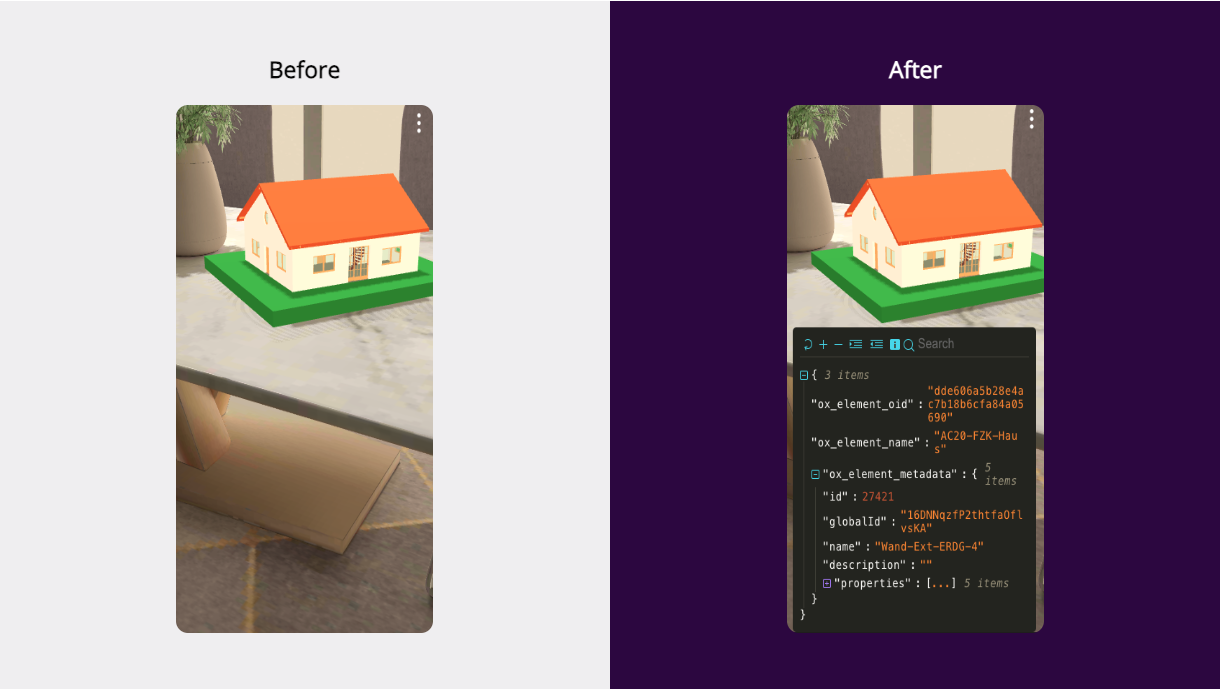
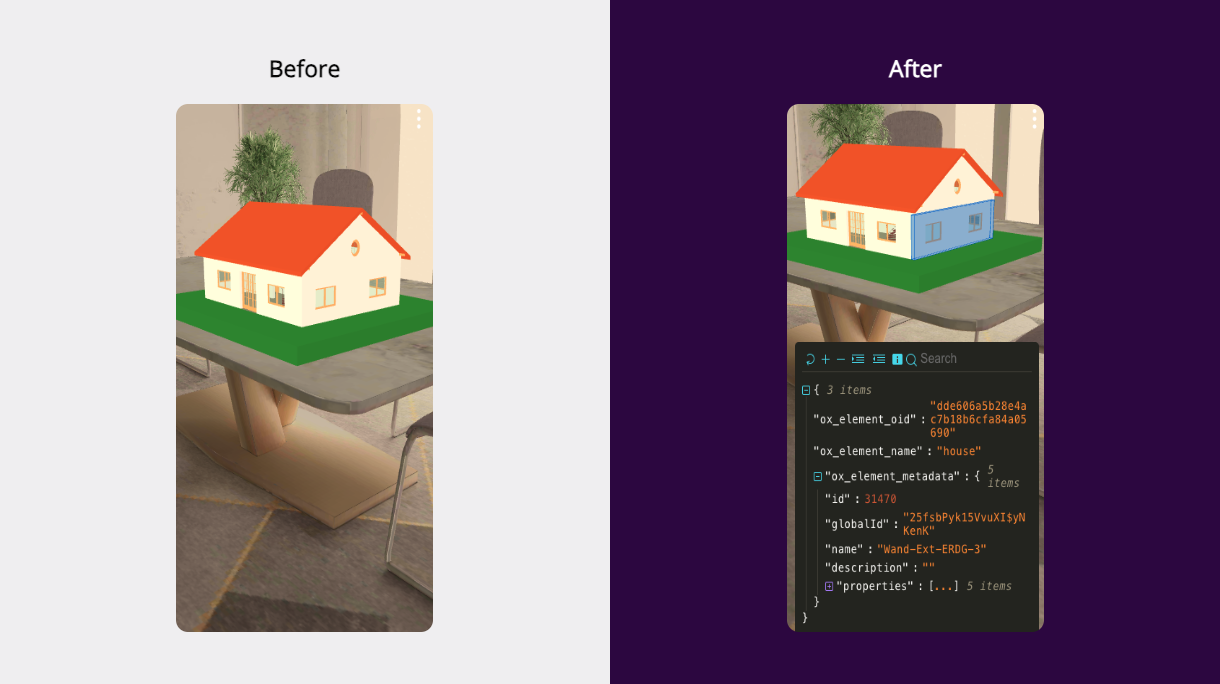
✨ (README.md): Add new feature 'Customize the way parts are highlighted' to BIM features list 📝 (bim-customize-highlight/README.md): Add documentation for new feature 'Customize the way parts are highlighted' ✨ (bim-customize-highlight/bim-customize-highlight.js): Add new feature to customize the wa

diff --git a/bim-get-model-metadata/bim-get-model-metadata.js b/bim-get-model-metadata/bim-get-model-metadata.js
@@ -24,11 +24,12 @@ script.onload = function() {
 document.head.appendChild(script);
 
 // Import the Onirix Embed SDK
-import OnirixEmbedSDK from "https://unpkg.com/@onirix/embed-sdk@1.13.0/dist/ox-embed-sdk.esm.js";
+import OnirixEmbedSDK from "https://unpkg.com/@onirix/embed-sdk@1.14.0/dist/ox-embed-sdk.esm.js";
 
 // Instantiate and connect the Onirix Embed SDK
 const embedSDK = new OnirixEmbedSDK();
-embedSDK.connect();
+await embedSDK.connect();
+embedSDK.highlightBIMPieces(true);
 
 // Subscribe to the ELEMENT_CLICK event
 embedSDK.subscribe(OnirixEmbedSDK.Events.ELEMENT_CLICK, async (params) => {

diff --git a/bim-customize-highlight/bim-customize-highlight.js b/bim-customize-highlight/bim-customize-highlight.js
@@ -1,0 +1,15 @@
+// Import the Onirix Embed SDK
+import OnirixEmbedSDK from "https://unpkg.com/@onirix/embed-sdk@1.14.0/dist/ox-embed-sdk.esm.js";
+
+// Instantiate and connect the Onirix Embed SDK
+const embedSDK = new OnirixEmbedSDK();
+await embedSDK.connect();
+
+// Default 
+// embedSDK.highlightBIMPieces(true);
+
+// Sphere
+// embedSDK.highlightBIMPieces(true, {type: "sphere", color: "#FABADA", opacity: 0.7, radius: 0.5 });
+
+// Box withhout border
+embedSDK.highlightBIMPieces(true, {type: "box", color: "#FABADA", opacity: 0.7, border: {enable: false}});

diff --git a/ox-screen-capture-custom-ui/ox-screen-capture-custom-ui.js b/ox-screen-capture-custom-ui/ox-screen-capture-custom-ui.js
@@ -1,5 +1,5 @@
-import OnirixEmbedSDK from "https://www.unpkg.com/@onirix/embed-sdk@1.11.2/dist/ox-embed-sdk.esm.js";
-import OnirixScreenCaptureLib from "https://unpkg.com/@onirix/screen-capture@1.3.0/dist/ox-screencapture-lib.esm.js";
+import OnirixEmbedSDK from "https://www.unpkg.com/@onirix/embed-sdk@1.14.0/dist/ox-embed-sdk.esm.js";
+import OnirixScreenCaptureLib from "https://unpkg.com/@onirix/screen-capture@1.4.0/dist/ox-screencapture-lib.esm.js";
 
 const embedSDK = new OnirixEmbedSDK();
 

diff --git a/ox-screen-capture-default-ui/ox-screen-capture-default-ui.js b/ox-screen-capture-default-ui/ox-screen-capture-default-ui.js
@@ -1,5 +1,5 @@
-import OnirixEmbedSDK from "https://www.unpkg.com/@onirix/embed-sdk@1.11.2/dist/ox-embed-sdk.esm.js";
-import OnirixScreenCaptureLib from "https://unpkg.com/@onirix/screen-capture@1.3.0/dist/ox-screencapture-lib.esm.js";
+import OnirixEmbedSDK from "https://www.unpkg.com/@onirix/embed-sdk@1.14.0/dist/ox-embed-sdk.esm.js";
+import OnirixScreenCaptureLib from "https://unpkg.com/@onirix/screen-capture@1.4.0/dist/ox-screencapture-lib.esm.js";
 
 const embedSDK = new OnirixEmbedSDK();
 

diff --git a/ox-screen-capture-overlay/ox-screen-capture-overlay.js b/ox-screen-capture-overlay/ox-screen-capture-overlay.js
@@ -1,5 +1,5 @@
-import OnirixEmbedSDK from "https://unpkg.com/@onirix/embed-sdk@1.11.2/dist/ox-embed-sdk.esm.js";
-import OxScreenCaptureLib from "https://unpkg.com/@onirix/screen-capture@1.3.0/dist/ox-screencapture-lib.esm.js";
+import OnirixEmbedSDK from "https://unpkg.com/@onirix/embed-sdk@1.14.0/dist/ox-embed-sdk.esm.js";
+import OxScreenCaptureLib from "https://unpkg.com/@onirix/screen-capture@1.4.0/dist/ox-screencapture-lib.esm.js";
 
 const OVERLAY_ASSET_OID = '<your asset oid>';
 

diff --git a/bim-ask-model-metadata/bim-ask-model-metadata.js b/bim-ask-model-metadata/bim-ask-model-metadata.js
@@ -24,7 +24,7 @@ script.onload = function() {
 document.head.appendChild(script);
 
 // Import the Onirix Embed SDK
-import OnirixEmbedSDK from "https://unpkg.com/@onirix/embed-sdk@1.13.0/dist/ox-embed-sdk.esm.js";
+import OnirixEmbedSDK from "https://unpkg.com/@onirix/embed-sdk@1.14.0/dist/ox-embed-sdk.esm.js";
 
 // Instantiate and connect the Onirix Embed SDK
 const embedSDK = new OnirixEmbedSDK();

diff --git a/bim-get-model-metadata/bim-get-model-metadata.css b/bim-get-model-metadata/bim-get-model-metadata.css
@@ -1,0 +1,20 @@
+.ox-json-viewer {
+    background-color: #fff;
+    border-radius: 5px;
+    overflow: auto;
+    max-height: 300px;
+    margin: 0 5vw;
+    position: fixed;
+    bottom: 0px;
+    left: 0px;
+    width: 90vw;
+}
+
+#ox-query-data {
+    position: absolute;
+    margin: 1vh 5vw;
+    height: 20px;
+    padding: 10px;
+    width: calc(90vw - 20px);
+    border-radius: 10px;
+}

diff --git a/bim-customize-highlight/README.md b/bim-customize-highlight/README.md
@@ -1,0 +1,15 @@
+# Customize the way parts are highlighted
+
+With this example you can particularize how the clicked parts of the BIM model are highlighted.
+
+For more information about this feature visit our [documentation](https://docs.onirix.com/onirix-studio/assets/3d-models/bim-models-with-metadata).
+
+You can get the scene asset [here](../assets/AC20-FZK-Haus.ifc).
+
+<p style = 'text-align:center;'>
+  <image
+    src="bim-customize-highlight.png"
+    alt="Customize the way parts are highlighted"
+    caption="Customize the way parts are highlighted" 
+    style="border-radius: 12px;">
+</p>

diff --git a/README.md b/README.md
@@ -65,6 +65,7 @@
 ### BIM features
 
 - [Get model metadata](bim-get-model-metadata)
+- [Customize the way parts are highlighted](bim-customize-highlight)
 - [Ask model for metadata](bim-ask-model-metadata)
 
 ### Modules & Datastore
